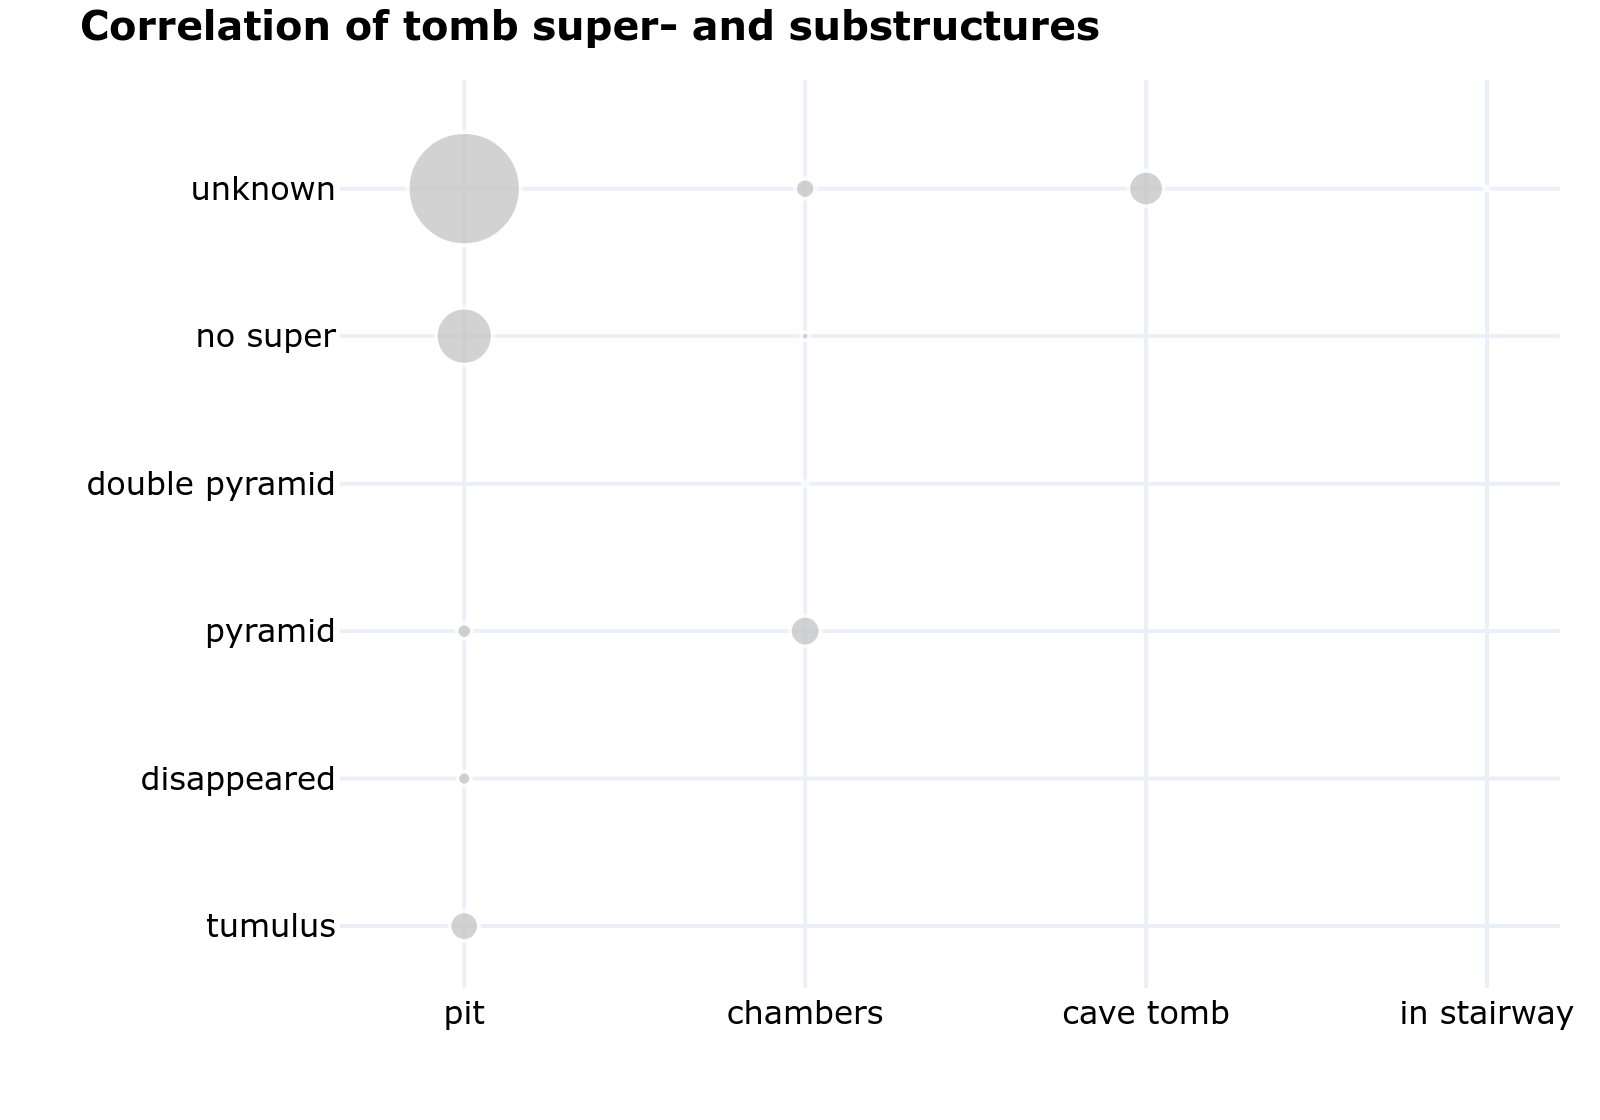
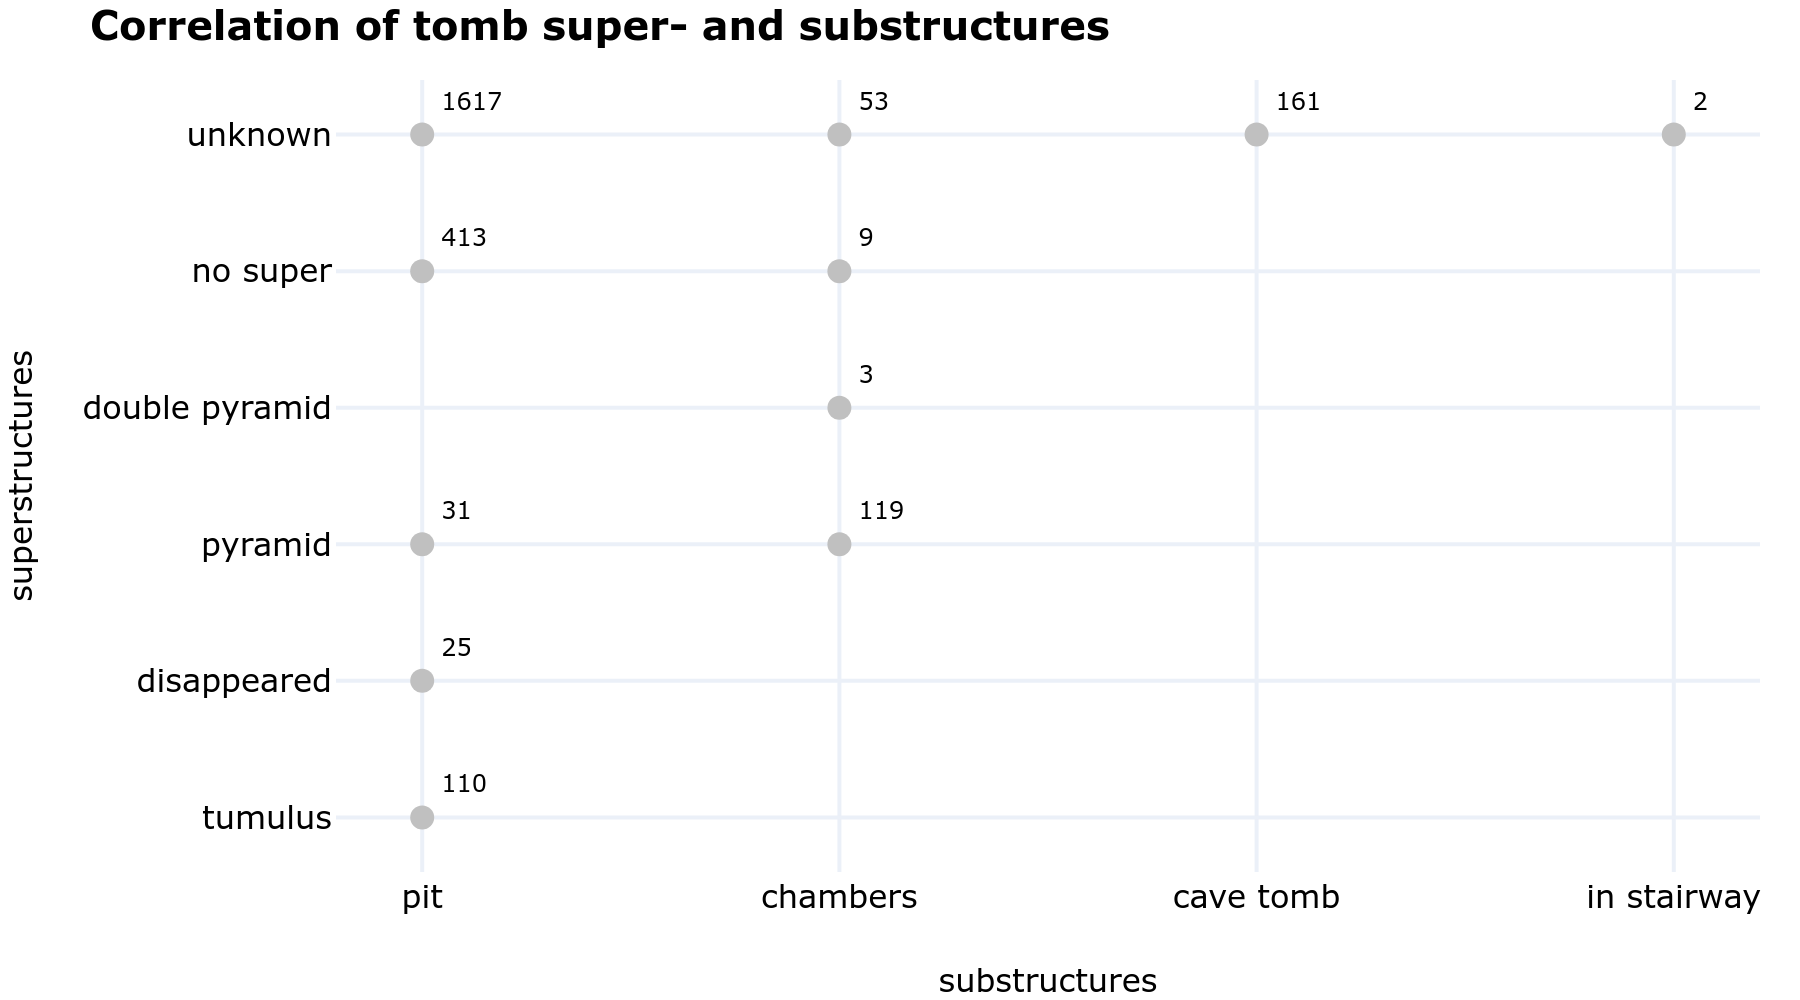
+ graphs

diff --git a/diversenile/quantity_tomb.py b/diversenile/quantity_tomb.py
@@ -7,64 +7,71 @@ engine = create_engine('mysql+pymysql://victoria:amulets123@localhost:3306/phd_v
 
 query = """
 WITH combined_data AS (
-    SELECT
-        b.sub,
-        b.super,
-        a.artifact_id AS item_id,
-        'artifact' AS item_type
+    SELECT b.sub, b.super, b.burial_id, a.artifact_id AS item_id
     FROM artifacts a
     JOIN burials b ON b.burial_id = a.burial_id
-    WHERE dating = 'napatan' 
-        AND sub != 'deposit'
+    WHERE b.dating = 'napatan' 
+        AND b.sub != 'deposit'
         AND b.site_id IN (1,2,4,5,6,7,8,9,10)
-    
     UNION ALL
-    
-    SELECT
-        b.sub,
-        b.super,
-        am.amulet_id AS item_id,
-        'amulet' AS item_type
+    SELECT b.sub, b.super, b.burial_id, am.amulet_id AS item_id
     FROM amulets am
     JOIN burials b ON b.burial_id = am.burial_id
-    WHERE dating = 'napatan' 
-        AND sub != 'deposit'
+    WHERE b.dating = 'napatan' 
+        AND b.sub != 'deposit'
         AND b.site_id IN (1,2,4,5,6,7,8,9,10)
+),
+burial_totals AS (
+    SELECT sub, super, burial_id, COUNT(item_id) as total_items
+    FROM combined_data
+    GROUP BY sub, super, burial_id
 )
-SELECT
-    sub,
-    super,
-    COUNT(DISTINCT item_id) AS total
-FROM combined_data
-GROUP BY 1, 2
+SELECT 
+    sub, 
+    super, 
+    AVG(total_items) as median_total_items
+FROM (
+    SELECT
+        sub,
+        super,
+        total_items,
+        ROW_NUMBER() OVER (PARTITION BY sub, super ORDER BY total_items) as row_num,
+        COUNT(*) OVER (PARTITION BY sub, super) as total_count
+    FROM burial_totals
+) AS ranked
+WHERE row_num IN (FLOOR((total_count + 1) / 2), CEIL((total_count + 1) / 2))
+GROUP BY sub, super
+ORDER BY sub, super;
 """
 
 df = pd.read_sql(query, engine)
 
-fig = px.scatter(
+custom_colors = ['#92cad1','#e9724d', '#d6d727', '#79ccb3', '#868686']
+
+fig = px.bar(
     df,
-    x='sub',
-    y='super',
-    size='total',
-    #text='total',
-    title='<b>Distribution of quantity of objects by tomb structure</b>',
-    color_discrete_sequence=['#C0C0C0'],
+    x='super',
+    y='median_total_items',
+    color='sub',
+    text='median_total_items',
+    barmode='group',
+    title='<b>Median number of objects by tomb structure</b>',
+    color_discrete_sequence=custom_colors,
     template="plotly_white",
     labels={"total": "Total"},
 )
 
-#fig.update_traces(textposition='outside')
-fig.update_xaxes(title_text='')
-fig.update_yaxes(title_text='')
+fig.update_xaxes(title_text='substructures', title_font=dict(size=8))
+fig.update_yaxes(title_text='superstructures', title_font=dict(size=8))
 
 fig.update_layout(
     xaxis={'categoryorder': 'total descending'}, 
-    legend=dict(
-        orientation="h",
-        yanchor="top",
-        y=-0.10,
-        xanchor="center",
-        x=0.50),
+    # legend=dict(
+    #     orientation="h",
+    #     yanchor="top",
+    #     y=-0.10,
+    #     xanchor="center",
+    #     x=0.50),
         #traceorder='reversed'),
     font=dict(
         family="Verdana, sans-serif",
@@ -76,4 +83,6 @@ fig.update_layout(
     title_font=dict(size=10)
     )
 
-pio.write_image(fig, 'diversenile/images/quantity_tomb.png',scale=3, width=400, height=280)
+fig.update_traces(textposition='auto', textfont_size=6)
+
+pio.write_image(fig, 'diversenile/images/quantity_tomb.png',scale=4, width=480, height=190)

diff --git a/diversenile/burial_tombs.py b/diversenile/burial_tombs.py
@@ -6,18 +6,41 @@ from sqlalchemy import create_engine
 engine = create_engine('mysql+pymysql://victoria:amulets123@localhost:3306/phd_v5')
 
 query = """
-SELECT
-    a.artifact_type AS type,
-    b.sub,
-    b.super,
-    COUNT(b.burial_id) AS total
-FROM burials b
-JOIN artifacts a ON a.burial_id = b.burial_id
-WHERE dating = 'napatan' 
-    AND sub != 'deposit'
-    AND b.site_id IN (1,2,4,5,6,7,8,9,10)
-    AND artifact_type IN ('bead nets', 'burial containers', 'canopics', 'heart scarabs', 'mummy trappings', 'offering tables', 'offering vessels', 'stelae')
-GROUP BY 1,2,3
+WITH combined_data AS (
+    SELECT b.sub, b.super, b.burial_id, a.artifact_id AS item_id, a.artifact_material AS material
+    FROM artifacts a
+    JOIN burials b ON b.burial_id = a.burial_id
+    WHERE b.dating = 'napatan' 
+        AND b.sub != 'deposit'
+        AND a.artifact_type IN ('bead nets', 'burial containers', 'canopics', 'heart scarabs', 'mummy trappings', 'offering tables', 'offering vessels', 'stelae')
+        AND b.site_id IN (1,2,4,5,6,7,8,9,10)
+),
+burial_totals AS (
+    SELECT 
+        sub, 
+        super, 
+        burial_id, 
+        COUNT(item_id) as total_items
+    FROM combined_data
+    GROUP BY sub, super, burial_id
+)
+SELECT 
+    sub, 
+    super, 
+    AVG(total_items) as median_total_items
+FROM (
+    SELECT
+        sub,
+        super,
+        burial_id,
+        total_items,
+        ROW_NUMBER() OVER (PARTITION BY sub, super ORDER BY total_items) as row_num,
+        COUNT(*) OVER (PARTITION BY sub, super) as total_count
+    FROM burial_totals
+) AS ranked
+WHERE row_num IN (FLOOR((total_count + 1) / 2), CEIL((total_count + 1) / 2))
+GROUP BY sub, super
+ORDER BY sub, super;
 """
 
 df = pd.read_sql(query, engine)
@@ -34,9 +57,8 @@ fig = px.scatter(
     template="plotly_white",
 )
 
-#fig.update_traces(textposition='outside')
-fig.update_xaxes(title_text='')
-fig.update_yaxes(title_text='')
+fig.update_xaxes(title_text='substructures', title_font=dict(size=8))
+fig.update_yaxes(title_text='superstructures', title_font=dict(size=8))
 
 fig.update_layout(
     yaxis={'categoryorder': 'total ascending'}, 

diff --git a/diversenile/tombs.py b/diversenile/tombs.py
@@ -23,16 +23,14 @@ fig = px.scatter(
     df,
     x='sub',
     y='super',
-    size='total',
-    #text='total',
+    text='total',
     title='<b>Correlation of tomb super- and substructures</b>',
     color_discrete_sequence=['#C0C0C0'],
     template="plotly_white",
 )
 
-#fig.update_traces(textposition='outside')
-fig.update_xaxes(title_text='')
-fig.update_yaxes(title_text='')
+fig.update_xaxes(title_text='substructures', title_font=dict(size=8))
+fig.update_yaxes(title_text='superstructures', title_font=dict(size=8))
 
 fig.update_layout(
     yaxis={'categoryorder': 'total ascending'}, 
@@ -53,4 +51,6 @@ fig.update_layout(
     title_font=dict(size=10)
     )
 
-pio.write_image(fig, 'diversenile/images/tombs.png',scale=4, width=400, height=280)
+fig.update_traces(textposition='top right', textfont_size=6)
+
+pio.write_image(fig, 'diversenile/images/tombs.png',scale=4, width=450, height=250)

diff --git a/diversenile/inscribed_tomb.py b/diversenile/inscribed_tomb.py
@@ -55,9 +55,8 @@ fig = px.scatter(
     template="plotly_white",
 )
 
-#fig.update_traces(textposition='outside')
-fig.update_xaxes(title_text='')
-fig.update_yaxes(title_text='')
+fig.update_xaxes(title_text='substructures', title_font=dict(size=8))
+fig.update_yaxes(title_text='superstructures', title_font=dict(size=8))
 
 fig.update_layout(
     yaxis={'categoryorder': 'total ascending'}, 

diff --git a/diversenile/material_tomb.py b/diversenile/material_tomb.py
@@ -34,9 +34,8 @@ fig = px.scatter(
     template="plotly_white",
 )
 
-#fig.update_traces(textposition='outside')
-fig.update_xaxes(title_text='')
-fig.update_yaxes(title_text='')
+fig.update_xaxes(title_text='substructures', title_font=dict(size=8))
+fig.update_yaxes(title_text='superstructures', title_font=dict(size=8))
 
 fig.update_layout(
     yaxis={'categoryorder': 'total ascending'}, 
